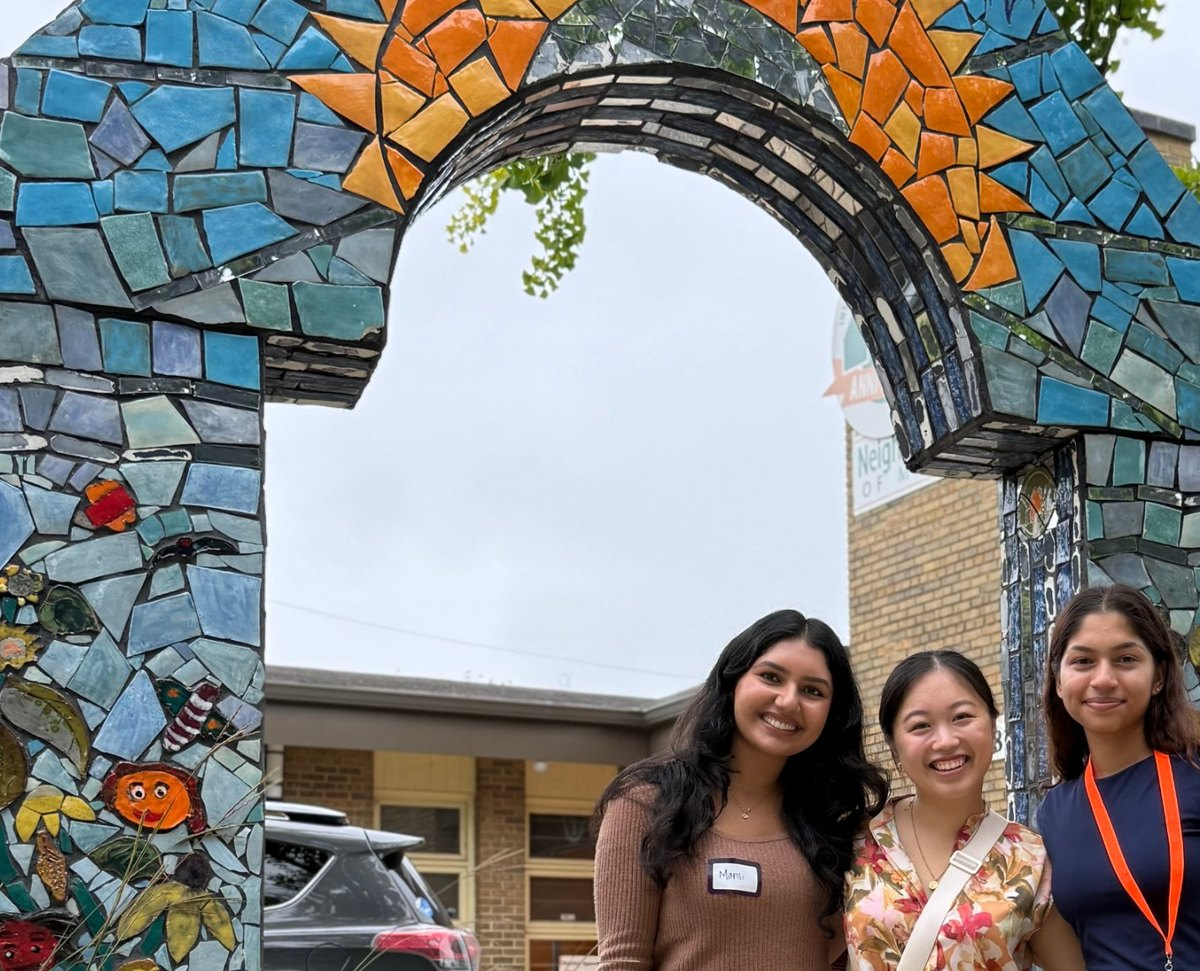
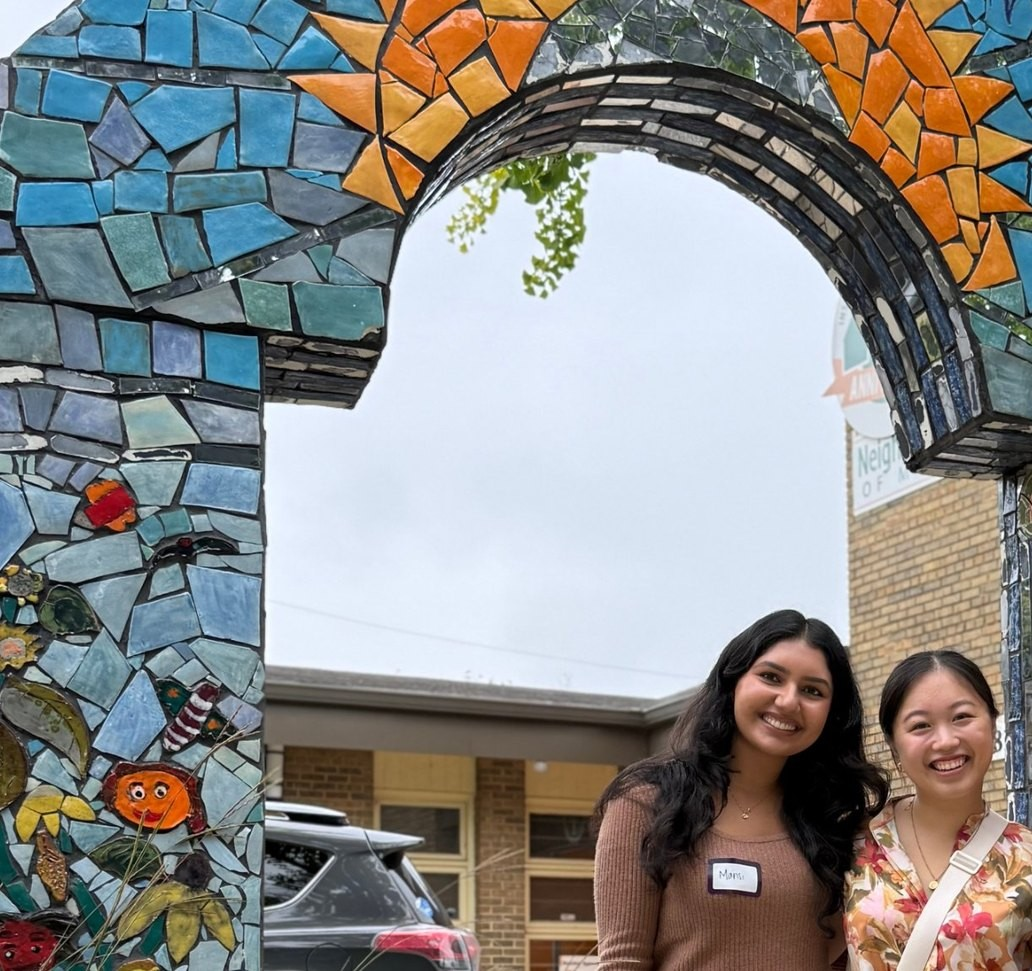
Crop Rhea out of partnership photo
Link Donate button to MCW giving page

diff --git a/index.html b/index.html
@@ -278,7 +278,7 @@ html{scroll-behavior:smooth}
   <div class="card"><div class="ph" style="background-image:url(img/volunteers.jpg);background-position:center 25%"></div><div class="body">
    <div class="ic"><svg viewBox="0 0 24 24"><path d="M12 21s-7-4.3-7-10a4 4 0 0 1 7-2.6A4 4 0 0 1 19 11c0 5.7-7 10-7 10z"/></svg></div>
    <h3>For Volunteers</h3><p>Physician and volunteer sign-up is open.<br>Student volunteer sign-up coming soon.</p><a class="wbtn arrow" href="https://mcwisc.co1.qualtrics.com/jfe/form/SV_d0GLzaxTZ0Vi3Ii" target="_blank" rel="noopener">Physician Sign Up</a><br><a class="wbtn arrow" href="https://mcwisc.co1.qualtrics.com/jfe/form/SV_6scc5P5tOGd8ngq" target="_blank" rel="noopener">Volunteer Sign Up</a></div></div>
-  <div class="card"><div class="ph ph-chairs" style="background-image:url(img/partners2.jpg);background-position:center 30%"></div><div class="body">
+  <div class="card"><div class="ph ph-chairs" style="background-image:url(img/partners2.jpg);background-position:right 72%"></div><div class="body">
    <div class="ic"><svg viewBox="0 0 24 24"><path d="m11 17 2 2a1 1 0 1 0 3-3"/><path d="m14 14 2.5 2.5a1 1 0 1 0 3-3l-3.88-3.88a3 3 0 0 0-4.24 0l-.88.88a1 1 0 1 1-3-3l2.81-2.81a5.79 5.79 0 0 1 7.06-.87l.47.28a2 2 0 0 0 1.42.25L21 4"/><path d="m21 3 1 11h-2"/><path d="M3 3 2 14l6.5 6.5a1 1 0 1 0 3-3"/><path d="M3 4h8"/></svg></div>
    <h3>For Partnerships</h3><p>Collaborate with SCU and our<br>FQ3 network of partner clinics.</p><a class="wbtn arrow" id="pf-open" role="button" tabindex="0">Partner with SCU</a></div></div>
  </div>
